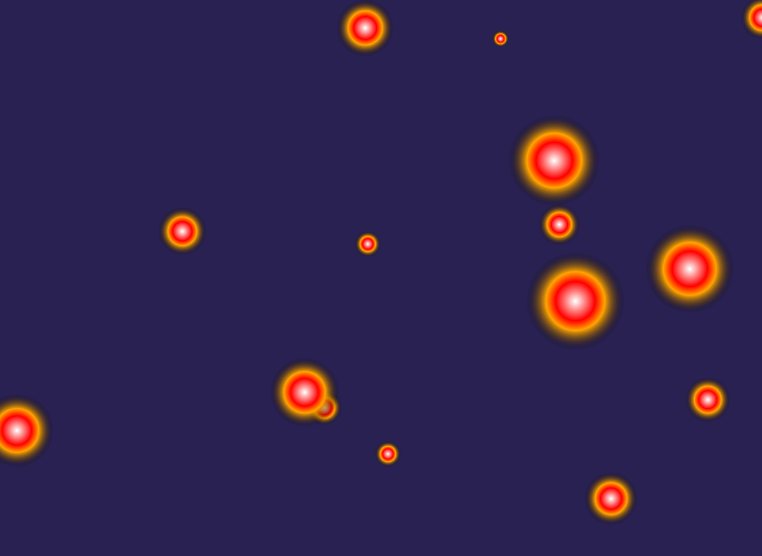
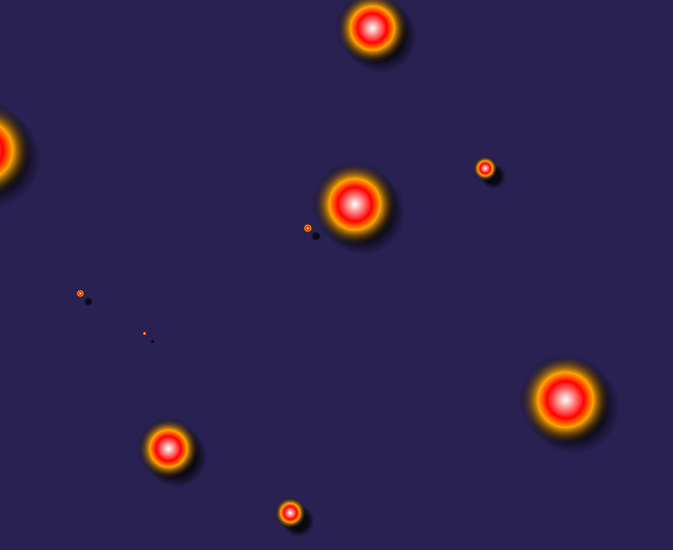
added shadow

diff --git a/examples/chapter_animations/multiple_elements_exercise/models/particle.js b/examples/chapter_animations/multiple_elements_exercise/models/particle.js
@@ -37,10 +37,17 @@ Particle.prototype.render = function(context) {
   radgrad.addColorStop(1, 'rgba(0,0,0,0)');
 
   context.fillStyle = radgrad;
-
+  
   context.rect(0, 0, radius, radius);
 
+  //Draw a shadow
+  context.shadowColor = 'rgba(0,0,0,0.75)';
+  context.shadowOffsetX = 8;
+  context.shadowOffsetY = 8;
+  context.shadowBlur = 1;
+
   context.fill();
+
   context.closePath();
   context.restore();
 }

diff --git a/chapter_animations/multiple.md b/chapter_animations/multiple.md
@@ -198,7 +198,7 @@ var gradient = context.createRadialGradient(xCirculoInicial, yCirculoInicial, ra
 
 Veamos una implementación del gradiente circular o radial.
 
-<img src="https://github.com/rafinskipg/introductioncanvas/raw/master/img/teory/chapter_animations/radial_gradient.png" style="width: 100%; margin: 20px">
+<img src="https://github.com/rafinskipg/introductioncanvas/raw/master/img/teory/chapter_animations/radial_gradient.png" style="width: 100%;margin-top: 20px; margin-bottom: 20px;">
 
 ```javascript
 Particle.prototype.render = function(context) {
@@ -233,9 +233,10 @@ Particle.prototype.render = function(context) {
 ```
 
 #Ejercicio 2
-Renderiza las partículas con combustible utilizando un gradiente `context.createRadialGradient`.
+- Renderiza las partículas con combustible utilizando un gradiente `context.createRadialGradient`.
+- Añade a cada partícula una sombra.
 
-<img src="https://github.com/rafinskipg/introductioncanvas/raw/master/img/teory/chapter_animations/multiple_particles_combustible_gradient.png" style="width: 100%; margin: 20px">
+<img src="https://github.com/rafinskipg/introductioncanvas/raw/master/img/teory/chapter_animations/multiple_particles_combustible_gradient.png" style="width: 100%;margin-top: 20px; margin-bottom: 20px;">
 
 
 //TODO: explicar luego la aceleracion con estas particulas y hacer un ejercicio de meter particulas cuando una muera en una direccion random, y que sea el particles moving (cap aceleracion)
